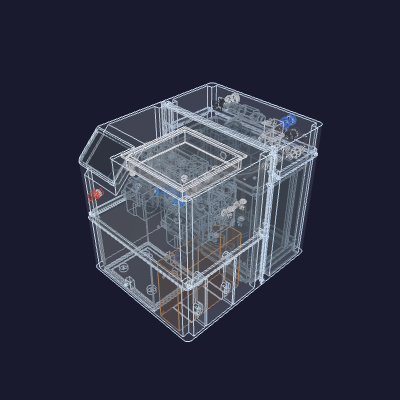
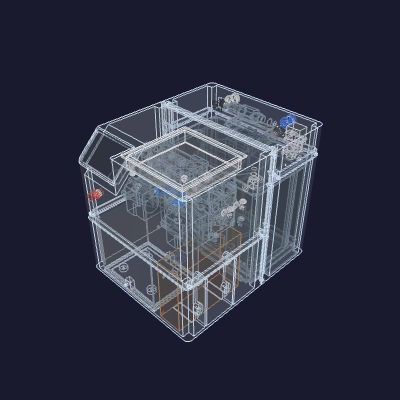
water deck: the pump crosses the bay, so the strip's east void takes the chain in two strata
The SeaFlo stands at the cap's east edge. What let it move was not the nozzle lanes
but the aft strip: V-K laid across it needed its 59 mm between collets PLUS the split's
body east of the branch it feeds, and the +X wall arrived first. Stood down the strip
instead, that length runs into depth the strip has, and the split goes under its cradle
in the band between the cap and the valve — the one footprint left once the valve is
standing in it. Its branch turns north and water-3 climbs the column between them.

The pump is not one height. `seaflo_low_crown` is the pressure switch's top face and
the X window it spans; the motor, the head and the boss all stand well over it, and it
is the only plane on the pump with air above it. Both nozzle lanes cross there, one
against each edge of that window, and come down in the lane the pump's back face and
V-K's front face leave open. A lane that reaches over the pump outside the window now
raises rather than routing.

The flavor tap leaves the deck entirely: the bracket carries the pump clear of the cap,
and the gap that leaves runs the bay's whole width. fluid-1 crosses the machine along
it into the regulator, which now stands on the cap in the band ahead of the pump.

That opens 107.7 x 147.6 mm of full-height void west of the pump for the electronics
shelf. 7/7 gates, clearances measured.

Changed region(s): [[0.57, 0.3, 0.78, 0.48], [0.54, 0.36, 0.57, 0.42], [0.45, 0.3, 0.48, 0.33]]

diff --git a/hardware/printed-parts/enclosure/enclosure-assembly/_lines.py b/hardware/printed-parts/enclosure/enclosure-assembly/_lines.py
@@ -16,16 +16,19 @@ legs, each measured off the faces that bound it:
     its east half. The west lane and the floor lane stay open for refrig-3's reach to the
     compressor's suction port.
   * the service bay's aft strip — the SeaFlo's back face to the rear-panel bodies, over the
-    foam-cap top — with the ASSE 1022 chain lying along it: its 1/4" inlet west off the water
-    bulkhead (water-1), its 1/4" outlet east onto the line to the split (water-2). The chain's
-    mass sits high, so a LANE runs the strip's whole length beneath it at the suction's own
-    height, and V-K lies along that lane: fed east off the split in the pocket (water-3), it
-    looks straight west down the lane at the north-facing suction (water-4). The band UNDER
-    the ASSE body stays open the same way: the drip the vent lets go of falls through it.
-  * the east pocket — the open column between the cold core's east face and the +X wall, aft
-    of the pump's narrow head end. The water chain hangs down it in one plane: the split at the
-    top taking the ASSE feed, then the flow regulator, then the fall to V-A (fluid-1, fluid-2).
-    It is the only lane across the deck that the pump does not fill.
+    foam-cap top — with the ASSE 1022 chain lying along its west half: its 1/4" inlet west off
+    the water bulkhead (water-1), its 1/4" outlet east onto the line to the split (water-2). The
+    strip's EAST void carries the rest of the water chain in two strata, east of every rear-panel
+    body: V-K stands down it with its port plane at the suction's, and the split lies under V-K's
+    cradle a stratum below, its branch looking north so water-3 climbs the column between them.
+    V-K's outlet then looks south down the LANE the pump's back face and V-K's own leave open
+    across the strip, west to the suction's X and into the north-facing barb (water-4). The band
+    UNDER the ASSE body stays open the same way: the drip the vent lets go of falls through it.
+  * the lane under the pump — the gap the SeaFlo's bracket leaves between its body and the
+    foam-cap top, running the bay's whole width and depth and free of everything the deck above
+    it is full of. The flavor tap crosses the machine along it: fluid-1 from the split, west out
+    from under V-K, south under the pump's head and back onto V-A's own X into the flow regulator
+    standing in the band ahead of the cap, and fluid-2 on down into V-A's up-facing collet.
   * the bag-fall corridor — the open Y behind the whole stack, aft face to cold-core front face
     (_contents `BAG_FALL_CORRIDOR`), running the box's full height and width. It is what stands
     the core off the stack, and the only lane that reaches either reservoir port low on that
@@ -54,11 +57,11 @@ legs, each measured off the faces that bound it:
   * the +X wall pocket and the channel inboard of it — the cold core's own standoff off that
     wall, where the two nozzle-outlet elbows stand, and the wide horizontal channel over the
     nozzle gate's spade tabs and the electronics shelf's board, under the hopper funnel's
-    basin, which runs unbroken the full depth of the box. It is wide rather than tall, so
-    fluid-18/28 share one deck ([292.4](NOZ_DECK_Z)) side by side in x rather than stacking,
-    and reach the rear flavor bulkheads without either climbing over the other. They take the
-    two lanes inboard of the flavor tap's fall, which owns the band's outermost. The pocket is
-    also the Y seam's corner-post lane, so both step west out of it before turning aft at all.
+    basin, which runs unbroken the full depth of the box. It carries fluid-18/28 aft on one deck
+    ([292.4](NOZ_DECK_Z)) as far as the pump, and there they CLIMB: the pump fills the deck the
+    whole way across, so both cross it on its low end — the pressure switch's crown — and come
+    down again in the lane behind it. The pocket is also the Y seam's corner-post lane, so both
+    step west out of it before turning aft at all.
 
 Precedent: `pcba.tsx`'s `route(...)` call sites.
 """
@@ -179,36 +182,41 @@ def _authored_runs() -> list:
         kind="water", bend=WBEND, skew=DISCHARGE_SKEW, stub=(6.0, 3.0),
         note="tap water: rear bulkhead → ASSE 1022 inlet"))
 
-    # water-2 — the 1/4" line off the ASSE's east outlet: straight east along the strip
-    # to the east pocket, then down the pocket's open column and south into the split's
-    # north-facing run. The descent stands off the split far enough to turn into it.
+    # The strip's east void carries the chain in TWO strata: V-K stands down it with its port
+    # plane at the suction's, and the split lies under V-K's cradle with its own a stratum below.
+    # Every hop between them is a climb or a fall in the open column east of the rear-panel
+    # bodies — the one column in the strip with no bulkhead reaching into it.
     runs.append(route(
         "water-2", "asse1022-assembly.tube-out",
-        sp.x("supply"),                      # east down the strip to the pocket's line
-        sp.y("supply", 13.0),                # north of the split, clear of its collet
-        sp.z("supply"),                      # down the pocket to the split's port plane
-        "water-split.supply",
-        kind="water", bend=WBEND, skew=DISCHARGE_SKEW, stub=(WBEND, WBEND),
-        note="tap water: ASSE 1022 outlet → split run"))
+        sp.out("supply", 20.0),              # east, clear of the ASSE's own end, into the column
+        sp.z("supply"),                      # down the column to the split's own plane, under V-K
+        "water-split.supply",                # east into its west-facing run
+        kind="water", bend=WBEND, skew=DISCHARGE_SKEW, stub=(WBEND, 2.0),
+        note="tap water: ASSE 1022 outlet → split run, down the column west of V-K"))
 
-    # water-3 — the short straight hop off the split's west-facing branch into V-K's
-    # inlet: the two collets are collinear along X in the one plane.
+    # water-3 — the split's branch looks north out from under V-K; the line stands off the
+    # valve's back face, climbs the stratum between them and turns south into the inlet.
     runs.append(route(
         "water-3", "water-split.to-vk",
+        vk.out("inlet", 4.0),                # north, clear of the valve's own back face
+        vk.x("inlet"),                       # east onto the valve's own line
+        vk.z("inlet"),                       # up the column to the valve's port plane
         "vk-fill-valve.inlet",
-        kind="water", bend=WBEND, skew=DISCHARGE_SKEW, stub=(2.0, 2.0),
-        note="tap water: split branch → V-K inlet"))
+        kind="water", bend=WBEND, skew=DISCHARGE_SKEW, stub=(WBEND, 2.0),
+        note="tap water: split branch → V-K inlet, up the strip's east column"))
 
-    # water-4 — V-K's outlet looks straight down the lane under the ASSE overhang: west
-    # to the suction's own line, then the short turn south into the north-facing barb.
-    # The 1/4" LLDPE steps up to the pump's 3/8" barb there (adapter in the BOM) — the
-    # barbs are molded into the head, so that step is the only 3/8" on this side.
+    # water-4 — V-K looks straight south down the open lane between the pump's back face and
+    # its own: the line drops into that lane, runs west to the suction's own X and turns south
+    # into the north-facing barb. The 1/4" LLDPE steps up to the pump's 3/8" barb there
+    # (adapter in the BOM) — the barbs are molded into the head, so that step is the only 3/8"
+    # on this side.
     runs.append(route(
         "water-4", "vk-fill-valve.outlet",
-        pump.x("suction"),                   # west down the lane to the suction's line
+        {"y": (pump.bb.ymax + vk.bb.ymin) / 2.0},   # south into the lane the two faces leave
+        pump.x("suction"),                   # west down that lane to the suction's line
         "seaflo-pump.suction",
         kind="water", bend=WBEND, skew=DISCHARGE_SKEW, stub=(WBEND, 2.0),
-        note="tap water: V-K outlet → SeaFlo suction (under the ASSE overhang)"))
+        note="tap water: V-K outlet → SeaFlo suction, down the lane behind the pump"))
 
     # water-6 — the 3/8" stub off the discharge. The pump's barbs are molded into the head,
     # so this hose is the only thing that can leave the port: it runs south off the barb,
@@ -233,20 +241,28 @@ def _authored_runs() -> list:
         kind="water", bend=WBEND, skew=DISCHARGE_SKEW, stub=(WBEND, WBEND),
         note="carb water: discharge chain → cold-core water inlet"))
 
-    # fluid-1 / fluid-2 — the flavor tap. The split's south run carries the ASSE feed on
-    # down the east pocket into the flow regulator, and the regulator's outlet runs the
-    # length of the pocket south, drops past the nozzle-gate tray's east end and turns
-    # in over V-A's up-facing collet. The pocket is open the whole way (probe: x 272–292
-    # clear from the split's plane down to the manifold).
+    # fluid-1 / fluid-2 — the flavor tap. Both runs live in the LANE UNDER THE PUMP: the pump's
+    # bracket carries its body clear of the cap, and the gap that leaves runs the bay's whole
+    # width and depth, free of everything the deck above it is full of. fluid-1 leaves the
+    # split's west-facing run into that lane, crosses south under the pump's head and back east
+    # onto V-A's own X, and closes north-to-south into the regulator standing in the band ahead
+    # of the cap. fluid-2 then runs the regulator's outlet south past the nozzle-gate tray's east
+    # end and turns down over V-A's up-facing collet.
     reg = f["flow-regulator"]
     src = f["source-select-assembly"]
+    # The +X wall's inner face steps in as it runs forward — the rib band the seam's stations
+    # stand on — so the flavor run leaves the split hard against it and comes west off it while
+    # it is still aft, in the same lane the pump's back face and V-K's front face leave open.
+    vk_pump_lane = (pump.bb.ymax + vk.bb.ymin) / 2.0
     runs.append(route(
         "fluid-1", "water-split.to-flavor",
-        reg.y("inlet", 11.0),                # south down the pocket, short of the regulator
-        reg.x("inlet"),                      # west one lane, off the wall's boss-chain band
+        sp.out("to-flavor", 8.0),            # east out from under V-K, into the lane
+        {"y": vk_pump_lane},                 # south to the lane behind the pump, off the wall's ribs
+        reg.x("inlet"),                      # west onto the regulator's own line
+        reg.out("inlet", 14.0),              # south under the pump, short of the regulator
         "flow-regulator.inlet",
-        kind="fluid", bend=WBEND, skew=DISCHARGE_SKEW, stub=(WBEND, WBEND),
-        note="flavor tap: split run → flow regulator"))
+        kind="fluid", bend=WBEND, skew=DISCHARGE_SKEW, stub=(WBEND, 2.0),
+        note="flavor tap: split run → flow regulator, along the lane under the pump"))
     runs.append(route(
         "fluid-2", "flow-regulator.outlet",
         src.y("V-A-I"),                      # south down the pocket to V-A's own line
@@ -463,7 +479,7 @@ def _authored_runs() -> list:
                 f"fluid-18/28: the deck ({deck_z:.2f}, the bulkheads' collet height) clears {what} "
                 f"({crown:.2f}) by {deck_z - od / 2.0 - crown:.2f} mm, inside the "
                 f"{LANE_CLEAR:.2f} mm the lane holds — lower {what}, or raise the bulkheads.")
-    # 28's west step off the pocket is [31.47](NOZ_POCKET_STEP) mm, and the square corner at each
+    # 28's west step off the pocket is [41.08](NOZ_POCKET_STEP) mm, and the square corner at each
     # end of it seats a tangent in that leg. 18 takes no step at all — its lane IS the column its
     # elbow stands in.
     NBEND = 7.0
@@ -473,35 +489,49 @@ def _authored_runs() -> list:
     # plus a lane. The pump is then free to travel east UNDER these two runs for as long as the
     # window still holds them, which is why what bounds its east reach is the water chain and not
     # these lanes.
-    #   In X each lane rides a window the chain leaves standing in the east pocket — 28 the one
-    # between V-K's east face and the regulator [257.73](NOZ_LANE_INNER_X), 18 the one between the
-    # regulator and the +X wall [289.2](NOZ_LANE_OUTER_X), which is the pocket column its own elbow
-    # already stands in. Neither has to thread the column the chain occupies, and at the climb
-    # height 18 passes clear over the split as well.
+    #   In X, 18 keeps the pocket column its own elbow stands in [274.18](NOZ_LANE_OUTER_X), which
+    # passes east of the pump, the regulator, the split and V-K alike and never has to climb at
+    # all. 28 steps west into the low window [248.13](NOZ_LANE_INNER_X) and climbs, because west of
+    # the pocket the deck is the pump's the whole way across.
+    #   Both close the same way: they come out of the pocket into the LANE the pump's back face
+    # and V-K's front face leave open across the strip, run west along it to their own bulkhead's
+    # column, and turn north into it. That lane is one tube deep, so the two runs take it at two
+    # heights — 18 at the bulkheads' own deck, 28 still up at its climb, coming down onto the deck
+    # only once it stands over its own bulkhead, west of everything 18 occupies.
     reg, vk_f, split = f["flow-regulator"], f["vk-fill-valve"], f["water-split"]
-    inner_x = (vk_f.bb.xmax + reg.bb.xmin) / 2.0        # centred in the window V-K and the regulator leave
-    outer_x = f["elbow-noz-a"].at("free")[0]            # 18's own pocket column, east of the regulator
-    if outer_x - od / 2.0 - reg.bb.xmax < LANE_CLEAR:
-        raise ValueError(
-            f"fluid-18: the pocket column its elbow stands in (x {outer_x:.2f}) clears the flow "
-            f"regulator (to x {reg.bb.xmax:.2f}) by "
-            f"{outer_x - od / 2.0 - reg.bb.xmax:.2f} mm, inside the {LANE_CLEAR:.2f} mm a lane "
-            f"holds — move the regulator west off the pocket (_contents FLOWREG_Y / flowreg_pos).")
     crown, window = contents.seaflo_low_crown()
     climb_z = crown + od / 2.0 + LANE_CLEAR
     pump = f["seaflo-pump"]
-    climb_y_in = pump.bb.ymin - 6.0                     # up ahead of the pump's front face
-    # Down behind the whole chain — the west leg into the bulkhead crosses V-K's and the split's
-    # own columns, so neither lane may come off the climb until it is aft of both of them.
-    climb_y_out = max(vk_f.bb.ymax, split.bb.ymax) + od / 2.0 + LANE_CLEAR
-    for cid, elb, bulk, lane_x in (
-        ("fluid-18", "elbow-noz-a", "bulkhead-flavor-a", outer_x),   # outer lane, east of the regulator
-        ("fluid-28", "elbow-noz-b", "bulkhead-flavor-b", inner_x),   # inner lane, west of it
+    # Both lanes stand inside the low window, one against each of its edges — that is the widest
+    # they can be spaced and still both cross the pump where the pump is short.
+    outer_x = window[1] - od / 2.0 - LANE_CLEAR         # 18, against the window's east edge
+    inner_x = window[0] + od / 2.0 + LANE_CLEAR         # 28, against its west edge
+    if outer_x - inner_x < od + LANE_CLEAR:
+        raise ValueError(
+            f"fluid-18/28: the pump's low window (x {window[0]:.2f}..{window[1]:.2f}) leaves its "
+            f"two lanes {outer_x - inner_x:.2f} mm apart, inside the {od + LANE_CLEAR:.2f} mm a "
+            f"lane and its clearance take — the two runs cannot both cross the pump here.")
+    # Each lane leaves the deck ahead of the SOUTHERNMOST thing standing in its own column — the
+    # pump for both, and for the outer lane the regulator too, whose stem reaches deck height in
+    # the band ahead of the cap. A lane that waited for the pump would run through that stem.
+    def _climb_y_in(lane_x):
+        south = [b.bb.ymin for b in (pump, reg)
+                 if b.bb.xmin - od / 2.0 < lane_x < b.bb.xmax + od / 2.0
+                 and b.bb.zmin < deck_z + od / 2.0 < b.bb.zmax]
+        return min(south, default=pump.bb.ymin) - 6.0
+    exit_y = (pump.bb.ymax + vk_f.bb.ymin) / 2.0        # the lane the pump and V-K leave between them
+    drop_y = vk_f.bb.ymin + 9.0                        # and where each comes down, off water-4's lane
+    # The two cross the strip one lane apart in Z: 18 at its own climb, 28 one lane over it, so
+    # the leg each takes west to its bulkhead's column never meets the other's.
+    for cid, elb, bulk, lane_x, cross_z in (
+        ("fluid-18", "elbow-noz-a", "bulkhead-flavor-a", outer_x, climb_z),
+        ("fluid-28", "elbow-noz-b", "bulkhead-flavor-b", inner_x, climb_z + od + LANE_CLEAR),
     ):
         # A lane is only allowed over the pump where the pump is low. Anywhere else the crown is
         # the motor's or the boss's and the climb would have to leave the box.
         lo, hi = lane_x - od / 2.0 - LANE_CLEAR, lane_x + od / 2.0 + LANE_CLEAR
-        if lo < pump.bb.xmax and not (window[0] <= lo and hi <= window[1]):
+        over_pump = lane_x - od / 2.0 < pump.bb.xmax     # the TUBE crosses it, not just its clearance
+        if over_pump and not (window[0] <= lo and hi <= window[1]):
             raise ValueError(
                 f"{cid}: its lane (x {lo:.2f}..{hi:.2f}, a lane's clearance either side) reaches "
                 f"over the pump (east to x {pump.bb.xmax:.2f}) outside the low window x "
@@ -510,20 +540,21 @@ def _authored_runs() -> list:
                 f"ceiling. Move the lane into the window, or the pump (_contents SEAFLO_POS) out "
                 f"from under it.")
         b = f[bulk]
-        # The step west off the pocket, unless the lane is the pocket column itself.
+        # The step west off the pocket, unless the lane is the pocket column itself; and the climb,
+        # unless the lane passes east of the pump and never meets it.
         step = [] if abs(lane_x - f[elb].at("free")[0]) < 1e-9 else [{"x": lane_x}]
+        climb = [{"y": _climb_y_in(lane_x)}, {"z": cross_z}] if over_pump else []
         runs.append(route(
             cid, f"{elb}.free",
             {"z": deck_z},                      # up out of the pocket, onto the deck over the spade tabs
             *step,                              # west into its own lane, clear of the boss chain
-            {"y": climb_y_in},                  # aft to just ahead of the pump
-            {"z": climb_z},                     # up over the pump's low end
-            {"y": climb_y_out},                 # aft above it and above the split, past V-K's back face
-            {"z": deck_z},                      # down to the bulkhead's collet height
-            b.x("tube-in"),                     # west into the bulkhead's own lane
+            *climb,                             # up ahead of the pump, over its low end
+            {"y": exit_y},                      # aft into the lane behind the pump
+            b.x("tube-in"),                     # west along that lane to the bulkhead's own column
+            *([{"y": drop_y}, {"z": deck_z}] if climb else []),  # aft off water-4's lane, then down
             f"{bulk}.tube-in",
             kind="fluid", bend=NBEND, skew=DISCHARGE_SKEW,
-            note=f"nozzle outlet: {elb} → {bulk}, up over the shelf, climbing over the pump's low end"))
+            note=f"nozzle outlet: {elb} → {bulk}, out over the shelf and west behind the pump"))
 
     return runs
 

diff --git a/hardware/printed-parts/enclosure/enclosure-assembly/_contents.py b/hardware/printed-parts/enclosure/enclosure-assembly/_contents.py
@@ -297,21 +297,24 @@ DRIP_PAN_X, DRIP_PAN_Y = _pan.PAN_X, _pan.PAN_Y
 # first. Stood down the strip, the length runs into depth the strip has and the column
 # the nozzle lanes need stays open beside it.
 BEDUAN_YAW = 180.0
-BEDUAN_POS = (265.0, 342.5, 274.1 + RING_SEAT)   # base centre on a cradle above the cap
+BEDUAN_POS = (264.0, 342.5, 274.1 + RING_SEAT)   # base centre on a cradle above the cap
 # The split lies UNDER V-K, in the band between the foam cap and V-K's cradle — the one
 # place in the strip's east void with a footprint free once the valve is standing in it.
-# Yawed so its run carries the ASSE feed across the void — in at +X off water-2, on at −X
-# to the flow regulator and V-A — and its branch turns V-K's share NORTH, where water-3
-# takes it up to the valve's inlet.
+# Its run carries the ASSE feed across the void — in at the WEST face off water-2, on at
+# the EAST to the flow regulator and V-A — and its branch turns V-K's share NORTH, where
+# water-3 takes it up to the valve's inlet. The branch has to point north and the run has
+# to lie along X, which is one turn about Z and one about its own run axis: the roll is
+# what puts the branch on the far side of the run from where the yaw alone would leave it.
 SPLIT_YAW = 270.0
-SPLIT_POS = (265.0, 350.0, 260.4 + RING_SEAT)   # centre; its port plane, standing on the cap under V-K
+SPLIT_ROLL = 180.0
+SPLIT_POS = (257.0, 345.5, 260.4 + RING_SEAT)   # centre; its port plane, standing on the cap under V-K
 # The flow regulator (neoFit ABCVU44) sits inline on the split's flavor run, in the band
 # between the hopper funnel's basin and the cap's front edge — the pump fills the deck behind
 # it, and this band is the only length of open air on the flavor run's own X. Its needle stem
 # stands up where a screwdriver reaches it over the deck. Its own frame is +X = flow; yawed so
 # the flow runs south, in at the north face off fluid-1 and on at the south face into the fall.
 # It sits on V-A's own X, so the line it feeds drops straight into that up-facing collet.
-FLOWREG_Y = 198.0
+FLOWREG_Y = 202.0
 FLOWREG_YAW = 270.0
 # The discharge chain hangs vertically in the bag-fall corridor, just clear of the cold
 # core's front face — the only column deep enough to stand its 83.4 mm. The pump's barbs
@@ -321,7 +324,7 @@ FLOWREG_YAW = 270.0
 # frame already runs the water down. Its X rides the pump's discharge, not a number of its
 # own: the hose turns at R15.9, so any offset between the two costs two tangent lengths of
 # strip the bay does not have. The corridor bounds this chain in Y, not in X.
-DISCH_CHAIN_POS = (SEAFLO_POS[0] + 36.6, 188.0, 265.0 + RING_SEAT)   # the barb tip; the collet hangs LENGTH below it
+DISCH_CHAIN_POS = (SEAFLO_POS[0] + 36.6, 190.0, 265.0 + RING_SEAT)   # the barb tip; the collet hangs LENGTH below it
 # The funnel's placement: its collar-rect centre in plan, plus a rotation
 # about its own Z. This is the CENTRE OF THE TOP-WALL FRAME — the basin sits
 # the same `hopper_funnel.brim_margin` off the display gusset, the corner pod,
@@ -520,6 +523,7 @@ def split_terminal(name):
     the tee turns its three ports with it."""
     pos, axis = {"supply": _split.supply, "to-vk": _split.to_vk,
                  "to-flavor": _split.to_flavor}[name]()
+    pos, axis = _roll_x(pos, SPLIT_ROLL), _roll_x(axis, SPLIT_ROLL)
     pos, axis = _yaw_z(pos, SPLIT_YAW), _yaw_z(axis, SPLIT_YAW)
     face = {(-1.0, 0.0, 0.0): "x-", (1.0, 0.0, 0.0): "x+", (0.0, 1.0, 0.0): "y+",
             (0.0, -1.0, 0.0): "y-", (0.0, 0.0, 1.0): "z+", (0.0, 0.0, -1.0): "z-"}[
@@ -549,9 +553,11 @@ def disch_terminal(name):
 
 def flowreg_pos():
     """The flow regulator's centre: V-A's own X, so the line it feeds falls straight into that
-    up-facing collet; FLOWREG_Y across the band ahead of the cap; and the SUCTION's Z, the plane
-    the deck-height water runs share — the split now sits a stratum below it, under V-K."""
-    return (src_collet("VA")[0][0], FLOWREG_Y, seaflo_terminal("suction")[0][2])
+    up-facing collet; FLOWREG_Y across the band ahead of the cap; and the split's Z, which is the
+    LANE UNDER THE PUMP — the gap the pump's bracket leaves between its body and the cap runs the
+    bay's whole width, and the flavor run crosses the machine along it without ever climbing into
+    the deck the pump fills."""
+    return (src_collet("VA")[0][0], FLOWREG_Y, SPLIT_POS[2])
 
 
 _FOAM_TOP_CACHE = None
@@ -1406,7 +1412,7 @@ def _build():
                                    _pan_x + _rail_dx, _pan_y + _rail_dy,
                                    _pan_z + _rail_dz)
     placed["water-split"] = _rot(
-        _load(WATER_SPLIT_STEP), (0, 0, 1), SPLIT_YAW
+        _rot(_load(WATER_SPLIT_STEP), (1, 0, 0), SPLIT_ROLL), (0, 0, 1), SPLIT_YAW
         ).translate(SPLIT_POS)
     placed["flow-regulator"] = _rot(
         _load(FLOWREG_STEP), (0, 0, 1), FLOWREG_YAW

diff --git a/hardware/printed-parts/enclosure/enclosure-assembly/scorecard.py b/hardware/printed-parts/enclosure/enclosure-assembly/scorecard.py
@@ -126,7 +126,7 @@ COMPONENTS = [
     _c("vk-fill-valve",     "real",        True,  "none","Beduan 12 V NC solenoid (reference/beduan-solenoid) — V-K, the water-supply fill/shutoff valve. Downstream of the ASSE 1022, between the split and the SeaFlo suction. Yawed a quarter turn so it lies along X in the band the pump's narrow head end opens: inlet east at the split's branch, outlet west at the suction, all three collets in one plane. Stands on a short cradle off the foam cap; cradle TBD"),
     _c("discharge-chain",   "real",        True,  "none","MAACFLOW 3/8\" barb + GASHER 1/4\" check + PP450822E 1/4\" PTC, made up as one piece (reference/seaflo-discharge-chain). The pump's barbs are molded into its head — no thread, no elbow fits — so a stub of 3/8\" braided PVC is the only thing that can leave the discharge; it turns down over the cap's front edge onto this chain's barb, and the 3/8\" ends there. Hangs vertically in the bag-fall corridor, the one column deep enough to stand its 83.4 mm. Bracket TBD"),
     _c("discharge-chain",   "real",        True,  "none","MAACFLOW 3/8\" barb + GASHER 1/4\" check + PP450822E 1/4\" PTC, made up as one piece (reference/seaflo-discharge-chain). The pump's barbs are molded into its head — no thread, and the 90° barbed accessory does not fit this head — so a stub of 3/8\" braided PVC is the only thing that can leave the discharge; it turns down over the cap's front edge onto this chain's barb, and the 3/8\" ends there. Hangs vertically in the bag-fall corridor, the one column deep enough to stand its 83.4 mm. Bracket TBD"),
-    _c("flow-regulator",    "real",        True,  "none","neoFit ABCVU44 1/4\" needle flow control (reference/neofit-flow-control) — the flavor tap's regulator, throttling the manifold's feed to its low working pressure. Tube-hung inline on the split's flavor run, further down the same pocket, flow running south; its needle stem stands up where a screwdriver reaches it over the deck. No tray, no holder"),
+    _c("flow-regulator",    "real",        True,  "none","neoFit ABCVU44 1/4\" needle flow control (reference/neofit-flow-control) — the flavor tap's regulator, throttling the manifold's feed to its low working pressure. Inline on the split's flavor run, standing on the foam-cap top in the band ahead of it, flow running south; its needle stem stands up where a screwdriver reaches it over the deck. No tray, no holder"),
     # Valve manifold
     _c("source-select-assembly", "real",   True,  "none", "Tray 1 — printed tray + 4 Beduan NC solenoids + 2 PP2308E Y-dividers + 4 outlet elbows (valve-manifold/source-select-tray); floors the stack, plate down and valves up, holder TBD"),
     _c("bag-circuit-assembly",   "real",   True,  "none", "Tray 2 — printed dog-bone tray + 4 Beduan NC solenoids + 2 PP0208E Tees + 2 west outlet elbows (valve-manifold/bag-circuit-tray); rides INVERTED on the source tray's stacking walls, east ports bare, holder TBD"),
@@ -166,6 +166,8 @@ TOUCHING_OK = {
     frozenset(p) for p in [
         ("cold-core-ring", "foam-assembly"),    # the core's bottom lid flat on the ring's bearing rail
         ("foam-assembly", "seaflo-pump"),       # the pump's base flat on the foam-cap top
+        ("foam-assembly", "water-split"),       # the split's body flat on the cap, under V-K's cradle
+        ("foam-assembly", "flow-regulator"),    # the regulator's body flat on the cap, ahead of the pump
         ("foam-assembly", "drip-pan-rails"),    # the rails' feet flat on the foam-cap top
         ("drip-pan", "drip-pan-rails"),         # the basin's floor edge flat on the shelves
         # The valve-manifold stack: the source-select tray's floor rests on the
@@ -380,10 +382,11 @@ PLACEMENT_RULES = {
                       ("clear", "seaflo-pump", 4.0),
                       ("clear", "asse1022-assembly", 3.0),
                       ("clear", "foam-assembly", 5.0)],
-    # The flow regulator hangs on the flavor run below the split (`near water-split` — the tube
-    # that carries it), out in the pocket clear of everything else.
-    "flow-regulator": [("near", "water-split", 24.0),
-                       ("clear", "foam-assembly", 5.0)],
+    # The flow regulator stands in the band ahead of the cap on the flavor run's own X, directly
+    # over the collet it feeds (`near source-select-assembly`), with the pump filling the deck
+    # behind it — so what it has to hold off is the pump, not the pocket it used to hang in.
+    "flow-regulator": [("near", "source-select-assembly", 70.0),
+                       ("clear", "seaflo-pump", 1.5)],
 }
 
 
